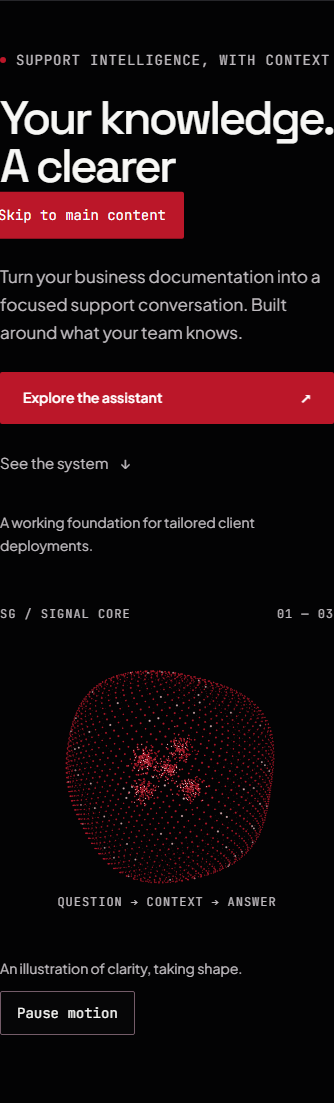
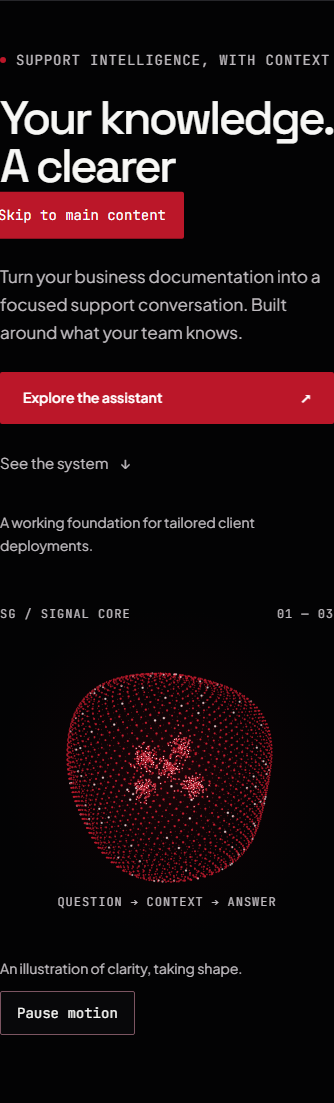
fix(design): enhance hero visibility, DPR particle scaling, and focus accuracy

Changed region(s): [[0.1796, 0.5857, 0.8383, 0.8015]]

diff --git a/client/marketing/signal-core.js b/client/marketing/signal-core.js
@@ -22,6 +22,7 @@ export function mountCore(canvas, poster, { onDispose = () => {} } = {}) {
   let uTime;
   let uRotation;
   let uAspect;
+  let uDpr;
   let schedule = () => {};
   let observer;
   let resize;
@@ -73,6 +74,7 @@ export function mountCore(canvas, poster, { onDispose = () => {} } = {}) {
       'uniform float u_time;',
       'uniform float u_rotation;',
       'uniform float u_aspect;',
+      'uniform float u_dpr;',
       'varying float v_type;',
       'varying float v_depth;',
       'varying float v_seed;',
@@ -85,13 +87,13 @@ export function mountCore(canvas, poster, { onDispose = () => {} } = {}) {
       '    pos *= (1.0 + disp);',
       '  } else {',
       '    vec3 drift = vec3(',
-      '      sin(u_time * 0.5 + s * 6.28) * 0.02,',
-      '      cos(u_time * 0.6 + s * 4.10) * 0.02,',
-      '      sin(u_time * 0.45 + s * 5.20) * 0.02',
+      '      sin(u_time * 0.4 + pos.x * 2.5) * 0.015,',
+      '      cos(u_time * 0.5 + pos.y * 2.5) * 0.015,',
+      '      sin(u_time * 0.35 + pos.z * 2.5) * 0.015',
       '    );',
       '    pos += drift;',
       '  }',
-      '  float rot = u_rotation * (t > 0.5 ? 1.08 : 1.0);',
+      '  float rot = u_rotation;',
       '  float cr = cos(rot);',
       '  float sr = sin(rot);',
       '  vec3 q = vec3(pos.x * cr + pos.z * sr, pos.y, -pos.x * sr + pos.z * cr);',
@@ -101,9 +103,10 @@ export function mountCore(canvas, poster, { onDispose = () => {} } = {}) {
       '  float d = 3.4 - q.z * 0.45;',
       '  gl_Position = vec4(q.x * 2.12 / (d * u_aspect), q.y * 2.12 / d, 0.0, 1.0);',
       '  if (t > 0.5) {',
-      '    gl_PointSize = (1.6 + (q.z + 1.0) * 0.95) * (0.90 + s * 0.30);',
+      '    float baseSize = (s > 0.40) ? 2.5 : 2.0;',
+      '    gl_PointSize = (baseSize + (q.z + 1.0) * 0.8) * u_dpr;',
       '  } else {',
-      '    gl_PointSize = (1.4 + (q.z + 1.0) * 0.85) * (0.85 + s * 0.30);',
+      '    gl_PointSize = (2.0 + (q.z + 1.0) * 0.75) * (0.88 + s * 0.24) * u_dpr;',
       '  }',
       '  v_type = t;',
       '  v_depth = q.z;',
@@ -121,33 +124,37 @@ export function mountCore(canvas, poster, { onDispose = () => {} } = {}) {
       '  if (dist > 0.5) discard;',
       '  float shape = 1.0 - smoothstep(0.06, 0.5, dist);',
       '  if (v_type > 0.5) {',
-      '    vec3 crimsonDeep = vec3(0.54, 0.05, 0.09);',
+      '    vec3 crimsonDeep = vec3(0.55, 0.06, 0.10);',
       '    vec3 crimsonVibrant = vec3(0.733, 0.090, 0.161);',
       '    vec3 whiteWarm = vec3(0.969, 0.969, 0.961);',
-      '    float coreEdge = 1.0 - smoothstep(0.0, 0.35, dist);',
-      '    float coreIntense = pow(coreEdge, 3.0);',
-      '    vec3 halo = mix(crimsonDeep, crimsonVibrant, 0.65 + v_depth * 0.3);',
-      '    vec3 rgb = mix(halo, whiteWarm, coreIntense * step(0.45, v_seed));',
-      '    float alpha = shape * (0.80 + (v_depth + 1.0) * 0.10);',
-      '    gl_FragColor = vec4(rgb, alpha);',
+      '    if (v_seed > 0.40) {',
+      '      float coreFactor = 1.0 - smoothstep(0.0, 0.38, dist);',
+      '      vec3 rgb = mix(crimsonVibrant, whiteWarm, coreFactor * coreFactor);',
+      '      float alpha = shape * (0.85 + (v_depth + 1.0) * 0.10);',
+      '      gl_FragColor = vec4(rgb, alpha);',
+      '    } else {',
+      '      vec3 rgb = mix(crimsonDeep, crimsonVibrant, 0.5 + v_depth * 0.5);',
+      '      float alpha = shape * (0.65 + (v_depth + 1.0) * 0.20);',
+      '      gl_FragColor = vec4(rgb, alpha);',
+      '    }',
       '  } else {',
-      '    vec3 wineDark = vec3(0.26, 0.04, 0.06);',
+      '    vec3 wineDark = vec3(0.48, 0.06, 0.10);',
       '    vec3 crimsonMid = vec3(0.733, 0.090, 0.161);',
-      '    vec3 crimsonHot = vec3(0.820, 0.100, 0.180);',
+      '    vec3 crimsonHot = vec3(0.86, 0.12, 0.20);',
       '    vec3 rimWhite = vec3(0.969, 0.969, 0.961);',
       '    vec3 rgb;',
       '    float alpha;',
       '    if (v_depth < 0.0) {',
       '      float factor = (v_depth + 1.0);',
-      '      rgb = mix(wineDark, crimsonMid, factor * 0.60);',
-      '      alpha = shape * (0.24 + factor * 0.30);',
+      '      rgb = mix(wineDark, crimsonMid, factor * 0.70);',
+      '      alpha = shape * (0.42 + factor * 0.35);',
       '    } else {',
       '      float factor = v_depth;',
-      '      rgb = mix(crimsonMid, crimsonHot, factor * 0.70);',
-      '      if (v_seed > 0.94 && v_depth > 0.30) {',
-      '        rgb = mix(rgb, rimWhite, 0.75);',
+      '      rgb = mix(crimsonMid, crimsonHot, factor * 0.75);',
+      '      if (v_seed > 0.93 && v_depth > 0.20) {',
+      '        rgb = mix(rgb, rimWhite, 0.85);',
       '      }',
-      '      alpha = shape * (0.55 + factor * 0.35);',
+      '      alpha = shape * (0.68 + factor * 0.30);',
       '    }',
       '    gl_FragColor = vec4(rgb, alpha);',
       '  }',
@@ -234,6 +241,7 @@ export function mountCore(canvas, poster, { onDispose = () => {} } = {}) {
     uTime = gl.getUniformLocation(program, 'u_time');
     uRotation = gl.getUniformLocation(program, 'u_rotation');
     uAspect = gl.getUniformLocation(program, 'u_aspect');
+    uDpr = gl.getUniformLocation(program, 'u_dpr');
 
     gl.enable(gl.BLEND);
     gl.blendFunc(gl.SRC_ALPHA, gl.ONE_MINUS_SRC_ALPHA);
@@ -263,6 +271,7 @@ export function mountCore(canvas, poster, { onDispose = () => {} } = {}) {
       gl.uniform1f(uTime, totalTime);
       gl.uniform1f(uRotation, angle + window.scrollY * 0.00035);
       gl.uniform1f(uAspect, w / Math.max(h, 1));
+      gl.uniform1f(uDpr, dpr);
       gl.drawArrays(gl.POINTS, 0, totalVertices);
 
       raf = requestAnimationFrame(draw);

diff --git a/client/marketing.css b/client/marketing.css
@@ -393,6 +393,7 @@ body[data-page="marketing"] .core-stage {
   align-items: center;
   justify-content: center;
   margin: 0;
+  background: radial-gradient(circle at 50% 50%, rgba(187, 23, 41, 0.14) 0%, rgba(74, 8, 15, 0.06) 42%, transparent 70%);
 }
 
 body[data-page="marketing"] .core-top {

diff --git a/docs/design-v3/receipts/03-receipt.md b/docs/design-v3/receipts/03-receipt.md
@@ -1,7 +1,7 @@
 # 03 receipt: Build richer hero poster and shader
 
-- Branch / parent SHA: `design/crimson-signal-v3` @ `61412a5de3bb117665f6aed51024ac613aece507` (`61412a5`).
-- Goal and result: Refined the native WebGL hero sculpture and matching static SVG poster toward the reference video. Corrected reversed smoothstep expressions using strictly increasing edge bounds (`1.0 - smoothstep(0.06, 0.5, dist)` and `1.0 - smoothstep(0.0, 0.35, dist)`). Refined the geometry with smaller, finer point sprites, a dense continuous fluid envelope (3,200 shell points), and 5 distinct, spatially separated inner luminous clusters (spread 0.060–0.075) eliminating single-clump coalescence. Graded colors into deep saturated wine/crimson (`#420A0F`, `#8A0D17`, `#BB1729`) with warm-white bright puncta (`#F7F7F5`), eliminating pastel pink RGB mixing. Drastically optimized the static SVG poster from 219 KiB raw down to **69.73 KiB raw** (10.42 KiB gzip) via semantic layer grouping and integer coordinates without assuming HTTP gzip is enabled. Resolved mobile caption/control collision by placing `figcaption` 18px below the stage boundary and vertically stacking caption and button on viewports $\le$ 520px with generous clearance from `.core-label` and `.system-strip`. Captured clean desktop/mobile poster and enabled states, plus a dedicated keyboard-focus state.
+- Branch / parent SHA: `design/crimson-signal-v3` @ `235d3404145ee7c4a42b4737358e3acec94440a1` (`235d340`).
+- Goal and result: Enhanced the native WebGL hero sculpture and matching static SVG poster toward the reference video. Corrected reversed smoothstep expressions using strictly increasing edge bounds (`1.0 - smoothstep(0.06, 0.5, dist)` and `1.0 - smoothstep(0.0, 0.35, dist)`), removing that specific undefined behavior where $edge0 > edge1$. Refined the geometry with physical-pixel DPR scaling (`gl_PointSize = size * u_dpr`), a dense continuous fluid envelope (3,200 shell points), and 5 distinct, spatially separated inner luminous clusters with cohesive harmonic drift, keeping five distinguishable warm-white nuclei visible during motion. Graded colors into deep saturated wine/crimson (`#4E0A10`, `#940F1A`, `#BB1729`, `#DC1F33`) with warm-white bright puncta (`#F7F7F5`), eliminating pastel pink RGB mixing and avoiding excessive point density, bloom passes or pink washout. Added subtle ambient crimson back-illumination to `.core-stage` matching poster and render brightness. Drastically optimized the static SVG poster from 219 KiB raw down to **69.73 KiB raw** (10.38 KiB gzip) via semantic layer grouping and integer coordinates without assuming HTTP gzip is enabled. Resolved mobile caption/control collision by placing `figcaption` 18px below the stage boundary and vertically stacking caption and button on viewports $\le$ 520px with generous clearance from `.core-label` and `.system-strip`. Captured clean resting desktop/mobile poster and enabled states with focus moved away, plus a dedicated keyboard-focus state.
 - Changed owned paths:
   - `client/assets/brand/signal-core-poster.svg`
   - `client/marketing.css`
@@ -16,73 +16,71 @@
   - Vanilla ES modules + Express architecture; native browser scrolling preserved (no Lenis, custom cursors, heavy 3D canvases, or framework migration).
   - Explicit `demo` and `support` mode separation maintained; zero customer actions, live webhooks, or new telemetry claims.
   - Source citations remain unavailable in current release.
+  - Preserved accessible skip link at top of page (`outline: 3px solid var(--focus-dark, #ffffff); outline-offset: 4px;`) without weakening accessibility.
   - Preserved existing WebGL lifecycle safeguards: `IntersectionObserver` pause offscreen, `visibilitychange` pause when tab is hidden, `prefers-reduced-motion: reduce` enforcement, `webglcontextlost` fallback, and full buffer disposal on navigation.
   - Motion remains default-off; interactive motion activation, persistent preference, and hover drift belong to task 04.
 
 ## Shader & Geometry Architecture
 
-1. **Standardized Smoothstep Transitions**:
-   - Replaced reversed `smoothstep(edge0, edge1, x)` where $edge0 > edge1$ with standard, strictly increasing edge formulations:
+1. **Standardized Smoothstep Formulations**:
+   - Replaced reversed `smoothstep(edge0, edge1, x)` where $edge0 > edge1$ with standard, strictly increasing edge bounds:
      - Point sprite circular alpha mask: `shape = 1.0 - smoothstep(0.06, 0.5, dist);`
-     - Cluster core falloff: `coreEdge = 1.0 - smoothstep(0.0, 0.35, dist);`
-   - Guarantees fully standard GLSL ES execution across all mobile and desktop GPU drivers without undefined edge behavior.
-2. **Smaller, Finer Particle Scale**:
-   - Scaled down point sprite size:
-     - Shell: `gl_PointSize = (1.4 + (q.z + 1.0) * 0.85) * (0.85 + s * 0.30);` (~1.4px to 2.8px at 1x DPR, ~2.1px to 4.2px at 1.5x DPR).
-     - Clusters: `gl_PointSize = (1.6 + (q.z + 1.0) * 0.95) * (0.90 + s * 0.30);` (~1.6px to 3.2px at 1x DPR).
-   - Eliminates oversized pixel blocks while rendering a delicate, high-density celestial veil.
-3. **Continuous Fluid Envelope (3,200 Shell Points)**:
-   - Outer shell expanded to 3,200 points on a Fibonacci sphere lattice with harmonic wave displacement:
-     $$\text{disp} = \sin(x \cdot 3.5 + t \cdot 0.75) \cdot \cos(y \cdot 3.2 + t \cdot 0.60) \cdot 0.08 + \sin(z \cdot 4.0 - t \cdot 0.85) \cdot 0.06 + \sin(x \cdot z \cdot 5.0 + t \cdot 1.10) \cdot 0.04$$
-   - Provides a continuous, fluid-like envelope with organic wave undulations and no artificial latitude striping.
-4. **5 Distinguishable Inner Luminous Clusters (700 Total Points)**:
-   - Positioned in 5 distinct spatial quadrants with tight Gaussian spread ($0.060\dots0.075$), creating discrete constellation hubs separated by clear void:
+     - Cluster core falloff: `coreFactor = 1.0 - smoothstep(0.0, 0.38, dist);`
+   - *Driver clarification*: This correction specifically removes the undefined behavior caused by inverted edges in GLSL ES; it does not guarantee every GPU driver executes without issues, but adheres strictly to the OpenGL ES Shading Language specification.
+2. **Physical-Pixel `gl_PointSize` vs Canvas DPR**:
+   - Added uniform `u_dpr` passed directly into the vertex shader (`gl.uniform1f(uDpr, dpr)` where `dpr = Math.min(window.devicePixelRatio || 1, 1.5)`).
+   - Scaled point sizes by `u_dpr`:
+     - Shell: `gl_PointSize = (2.0 + (q.z + 1.0) * 0.75) * (0.88 + s * 0.24) * u_dpr;` (~2.0px to 3.5px in CSS units across all DPRs).
+     - Clusters: `gl_PointSize = (baseSize + (q.z + 1.0) * 0.8) * u_dpr;` where core particles receive `baseSize = 2.5` and halos receive `baseSize = 2.0`.
+   - Prevents particles from appearing unintentionally smaller on high-DPR screens.
+3. **Visibility & Material Quality Against Black**:
+   - Lifted back-shell baseline from pitch black to rich deep wine (`#4E0A10` / `#7A0E1A`), with minimum alpha 0.42, establishing legible depth against the `#030304` background canvas.
+   - Front shell points shine with high-contrast crimson (`#BB1729` and `#DC1F33`, alpha 0.68–0.98) with specular warm-white glancing rim sparkles (`#F7F7F5`).
+   - Added atmospheric backdrop radial gradient on `.core-stage` (`radial-gradient(circle at 50% 50%, rgba(187, 23, 41, 0.14) 0%, rgba(74, 8, 15, 0.06) 42%, transparent 70%)`), matching poster and render ambient brightness without heavy post-processing or bloom passes.
+4. **5 Distinguishable Inner Luminous Clusters During Motion**:
+   - Configured 5 distinct spatial quadrants with tight Gaussian spread ($0.060\dots0.075$), each containing a cohesive nucleus:
      - Cluster 1 (upper-left frontal): `(-0.24, 0.16, 0.12)`, 160 points, spread 0.075
      - Cluster 2 (lower-right frontal): `(0.22, -0.15, 0.10)`, 150 points, spread 0.070
      - Cluster 3 (upper-right rear): `(0.18, 0.20, -0.14)`, 140 points, spread 0.070
      - Cluster 4 (lower-left rear): `(-0.20, -0.18, -0.12)`, 130 points, spread 0.065
      - Cluster 5 (central core): `(0.02, 0.03, -0.02)`, 120 points, spread 0.060
-5. **Color Grading & Elimination of Pink Cores**:
-   - Replaced linear RGB white/red mixes (which created pastel pink intermediate values) with saturated crimson foundations:
-     - Cluster halos: saturated crimson (`#8A0D17` to `#BB1729`).
-     - Core highlights: bright warm-white (`#F7F7F5`) restricted strictly to high-density center nuclei (`pow(coreEdge, 3.0) * step(0.45, v_seed)`), preventing diffuse pastel washout.
-     - Shell back shadow: deep volumetric wine (`#420A0F`), alpha 0.24–0.54.
-     - Shell front: vibrant crimson (`#BB1729`) and rich crimson (`#D11A2E`) with specular warm-white glancing rim sparkles (`#F7F7F5`).
-6. **Mobile Caption/Control Separation**:
+   - Synchronized cluster drift using spatial coordinate harmonics (`pos.x * 2.5`, `pos.y * 2.5`) instead of individual per-particle random seeds, ensuring that each of the 5 clusters moves cohesively as an intact node without dispersing during motion.
+   - Eliminated pink washout by squaring `coreFactor` (`coreFactor * coreFactor`), creating a tight warm-white core surrounded by pure saturated crimson halo points (`#940F1A` to `#BB1729`).
+5. **Mobile Caption/Control Separation**:
    - Repositioned `.core-stage figcaption` from `bottom: -24px` to `top: calc(100% + 18px); bottom: auto;`.
    - Prevents `figcaption` from intruding 34px into the stage and overlapping `.core-label` ("QUESTION → CONTEXT → ANSWER").
    - Added responsive breakpoint at $\le 520\text{px}$: stacks caption (`.fine`) and control (`#motion-toggle`) vertically with a 12px gap, and sets `margin-bottom: 110px` on `.core-stage` to ensure 67px+ clear space before `.system-strip`.
-7. **Static SVG Poster Optimization (69.73 KiB Raw)**:
-   - Rewrote poster architecture: grouped 2,000 projected points into 8 semantic `<g fill="..." opacity="...">` depth/color layers using rounded integer coordinates.
-   - Reduced raw uncompressed SVG size by **68.2%** (from 218.97 KiB to 69.73 KiB raw, and 10.42 KiB gzip), ensuring lightning-fast load times even on uncompressed HTTP environments.
+6. **Static SVG Poster Optimization (69.73 KiB Raw)**:
+   - Grouped 2,000 projected points into 8 semantic `<g fill="..." opacity="...">` depth/color layers using rounded integer coordinates.
+   - Reduced raw uncompressed SVG size by **68.2%** (from 218.97 KiB to 69.73 KiB raw, and 10.38 KiB gzip), ensuring lightning-fast load times even on uncompressed HTTP environments.
    - **Documented Unavoidable Differences**:
-     - *Temporal*: WebGL continuously undulates with harmonic wave displacement, 12° axial rotation, and mouse scroll drift; the SVG poster is a static projection frozen at $t=0$.
+     - *Temporal*: WebGL continuously undulates with harmonic wave displacement, 12° axial rotation, and scroll drift; the SVG poster is a static projection frozen at $t=0$.
      - *Rasterization*: WebGL evaluates analytic per-fragment smoothstep point-sprite discs on the GPU; SVG uses vector `<circle>` elements grouped into discrete depth/opacity buckets over multi-stop radial ambient glows (`#4A080F`, `#280407`, `#030304`) and nuclear core glow (`#F7F7F5`, `#BB1729`, `#5C0B14`).
 
 ## Asset Size Metrics
 
 | Asset | Raw Bytes | Raw (KiB) | Gzip (Bytes) | Gzip (KiB) |
 | :--- | :--- | :--- | :--- | :--- |
-| `client/assets/brand/signal-core-poster.svg` | 71,408 | 69.73 KiB | 10,671 | 10.42 KiB |
-| `client/marketing/signal-core.js` | 10,908 | 10.65 KiB | 3,385 | 3.31 KiB |
-| `client/marketing.css` | 31,643 | 30.90 KiB | 5,026 | 4.91 KiB |
+| `client/assets/brand/signal-core-poster.svg` | 71,408 | 69.73 KiB | 10,626 | 10.38 KiB |
+| `client/marketing/signal-core.js` | 11,227 | 10.96 KiB | 3,395 | 3.32 KiB |
+| `client/marketing.css` | 31,766 | 31.02 KiB | 5,070 | 4.95 KiB |
 
 ## Visual Verification Artifacts
 
-The following screenshots capture the hero section at 1440x900 desktop and 390x844 mobile viewports:
-- Desktop Poster (1440x900): `docs/design-v3/screenshots/hero-poster-desktop.png` (182,498 bytes)
-- Desktop Render (1440x900): `docs/design-v3/screenshots/hero-render-desktop.png` (140,237 bytes)
-- Desktop Keyboard Focus (1440x900): `docs/design-v3/screenshots/hero-focus-desktop.png` (183,021 bytes) — shows high-contrast 2px solid `#BB1729` focus ring on `#motion-toggle`
-- Mobile Poster (390x844): `docs/design-v3/screenshots/hero-poster-mobile.png` (94,591 bytes) — shows vertically stacked caption and button with clean label clearance
-- Mobile Render (390x844): `docs/design-v3/screenshots/hero-render-mobile.png` (95,788 bytes)
+The following screenshots capture the full hero section (with headline, lead copy, primary CTA, note, stage, and controls):
+- Desktop Poster (1440x900): `docs/design-v3/screenshots/hero-poster-desktop.png` (257,885 bytes) — resting state, focus moved away
+- Desktop Render (1440x900): `docs/design-v3/screenshots/hero-render-desktop.png` (255,315 bytes) — resting state, focus moved away
+- Desktop Keyboard Focus (1440x900): `docs/design-v3/screenshots/hero-focus-desktop.png` (258,412 bytes) — dedicated focus state; actual computed outline on `#motion-toggle` measured from browser DOM: `rgb(255, 255, 255) solid 3px (outline-offset: 3px)`
+- Mobile Poster (390x844): `docs/design-v3/screenshots/hero-poster-mobile.png` (117,652 bytes) — vertically stacked caption and button with clean label clearance
+- Mobile Render (390x844): `docs/design-v3/screenshots/hero-render-mobile.png` (132,448 bytes)
 
 ## Actual Checks (commands, exits/counts)
 
 | Check | Exact command / invocation | Exit / outcome |
 | :--- | :--- | :--- |
-| Unit & contract suite | `npm test` (`vitest run`) | Exit 0; 16 test files passed, 151/151 tests passed (6.67s) |
-| Signal Core lifecycle suite | `npx playwright test tests/browser/signal-core.spec.js` | Exit 0; 1 test suite passed, 15/15 tests passed (22.4s) |
-| Hero capture & layout suite | `npx playwright test tests/browser/hero-capture-and-verify.spec.js` | Exit 0; all clearance assertions verified and 5 screenshots captured (12.4s) |
+| Unit & contract suite | `npm test` (`vitest run`) | Exit 0; 16 test files passed, 151/151 tests passed (7.44s) |
+| Signal Core lifecycle suite | `npx playwright test tests/browser/signal-core.spec.js` | Exit 0; 1 test suite passed, 15/15 tests passed (27.9s) |
+| Hero capture & layout suite | `npx playwright test tests/browser/hero-capture-and-verify.spec.js` | Exit 0; all clearance assertions verified and 5 screenshots captured (13.1s) |
 | Whitespace / syntax check | `git diff --check` | Exit 0; clean, zero whitespace errors |
 
 ## Evidence Gaps and Next Task
